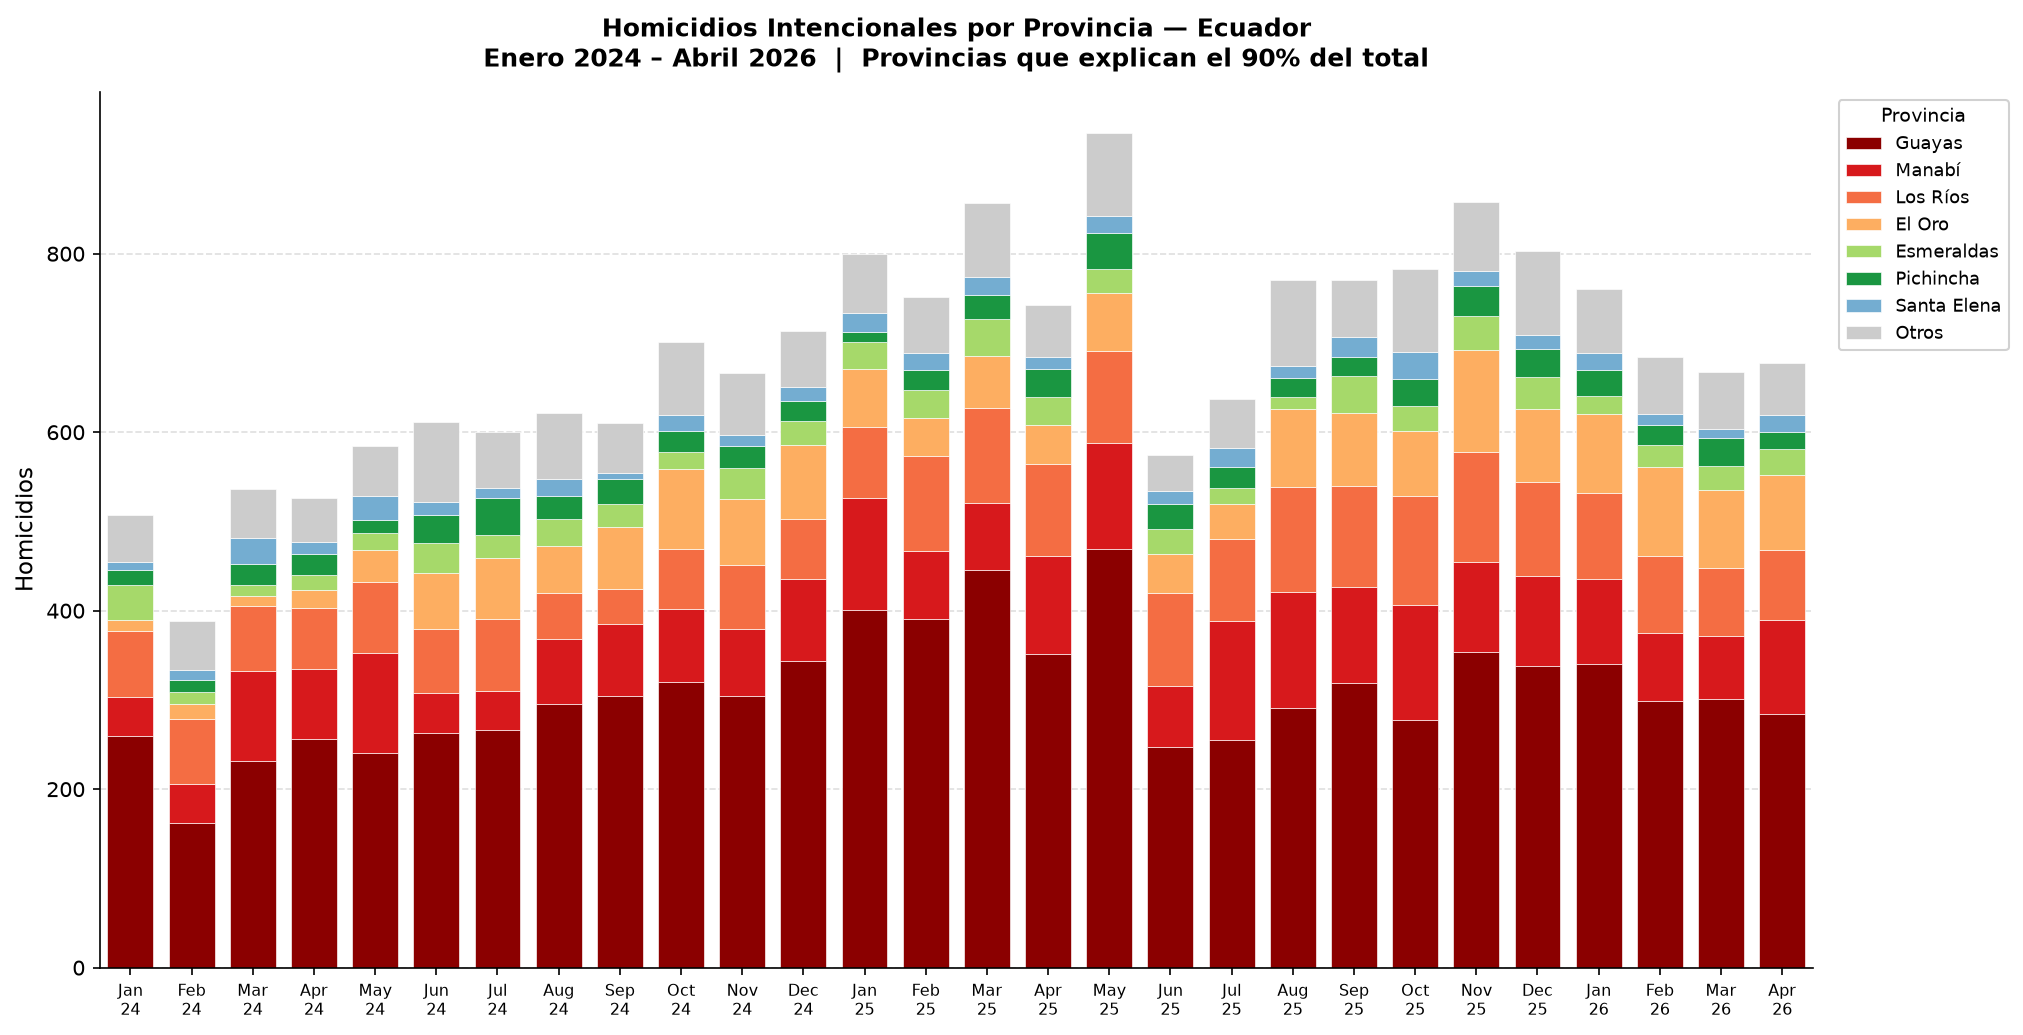
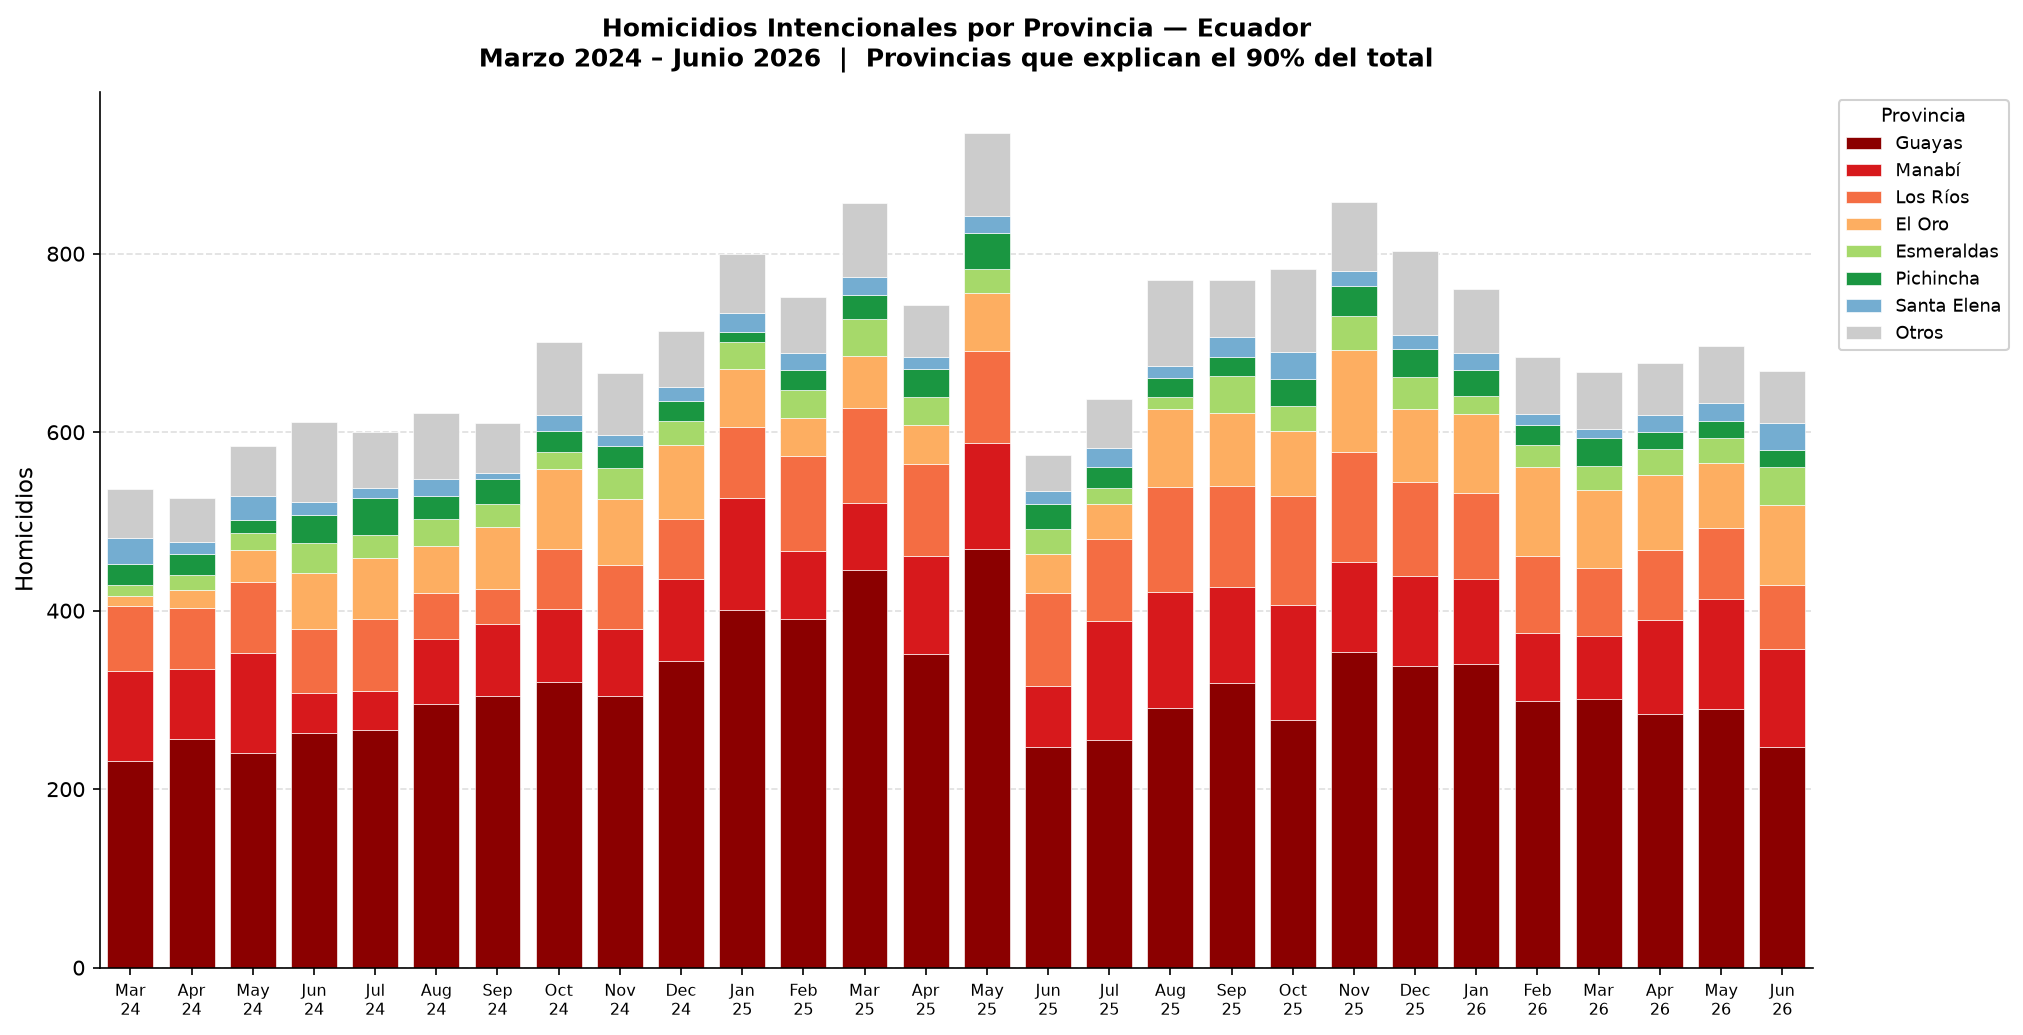
fix: make Homicidios 'Por Provincia' chart window roll forward automatically
The date range was hardcoded (Jan 2024-Apr 2026) in generate.py, so the
chart silently stopped updating past April even as fresh data landed.
Now derives a rolling 28-month window from the latest month in the data.

diff --git a/homicidios/index.html b/homicidios/index.html
@@ -90,7 +90,7 @@
         Descargar datos (.xlsx)
       </a>
       <p style="margin-top:.6rem;font-size:.75rem;color:#888">
-        Provincias que explican el 90% de homicidios &mdash; Enero 2024 a Abril 2026
+        Provincias que explican el 90% de homicidios &mdash; Marzo 2024 – Junio 2026
       </p>
     </div>
   </div>
